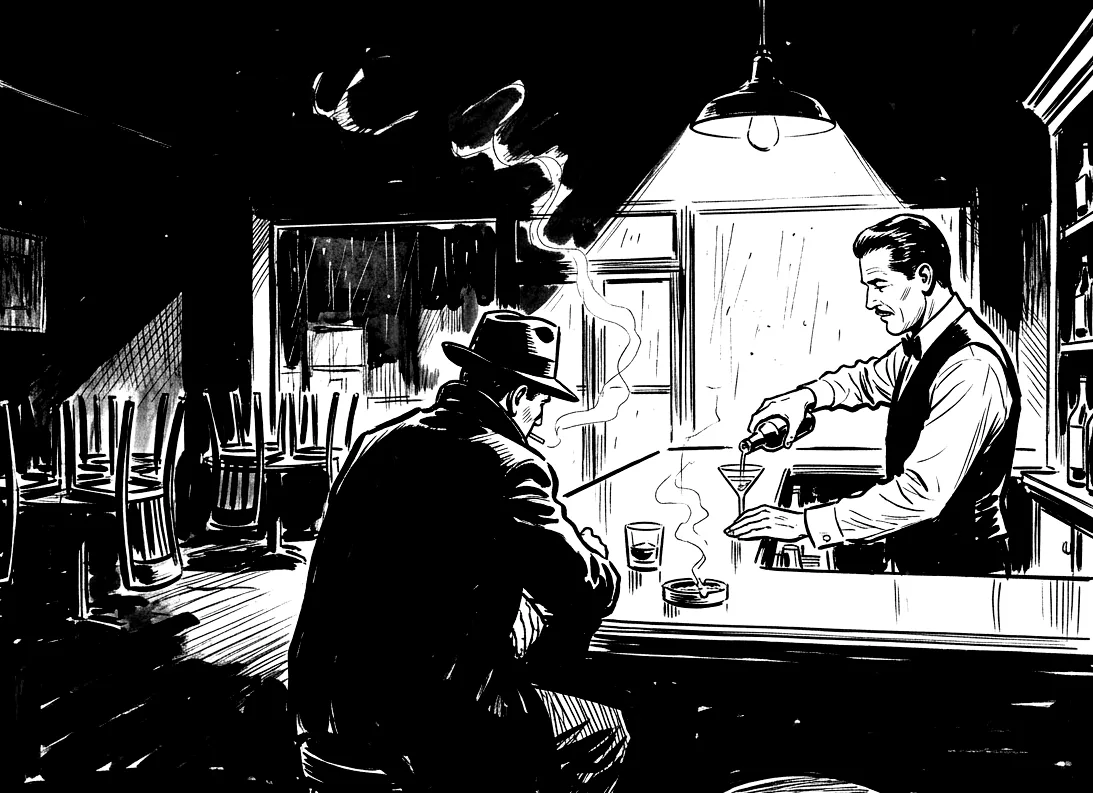
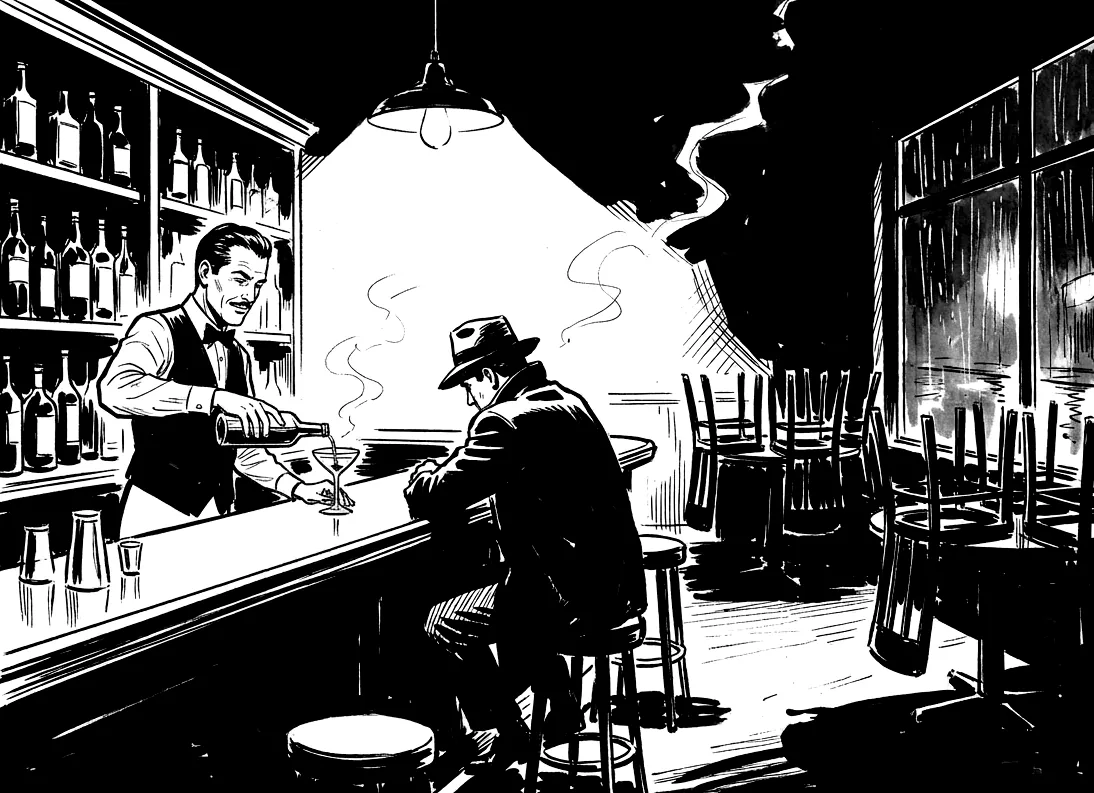
Ny nattbild för bartendern (man), samma motiv som kvinnans
Claude-Session: https://claude.ai/code/session_01X82C4BNK6EAMjc8zCm3VXK

diff --git a/src/scenes/sceneImages.js b/src/scenes/sceneImages.js
@@ -86,7 +86,7 @@ export const SCENE_IMAGES = /** @type {const} */ ({
   nightWindowWatcherWoman: { src: nightWindowWatcherWoman, alt: 'En kvinna med papiljotter bakom en gardin ser genom fönstret hur en man i hatt går fram till en upplyst dörr i regnet.', position: '60% 50%' },
   nightWindowWatcherMan: { src: nightWindowWatcherMan, alt: 'En äldre man med glasögon och en kikare i handen ser bakom en gardin hur en man i hatt går fram till en upplyst dörr i regnet.', position: '60% 50%' },
   nightBartenderWoman: { src: nightBartenderWoman, alt: 'En bartender häller upp en drink åt en ensam gäst i hatt som sitter hopsjunken vid bardisken.', position: '25% 50%' },
-  nightBartenderMan: { src: nightBartenderMan, alt: 'En bartender häller upp en drink åt en ensam gäst i hatt som sitter hopsjunken vid bardisken.', position: '100% 50%' },
+  nightBartenderMan: { src: nightBartenderMan, alt: 'En bartender häller upp en drink åt en ensam gäst i hatt som sitter hopsjunken vid bardisken.', position: '25% 50%' },
   nightSausageVendorWoman: { src: nightSausageVendorWoman, alt: 'En korvvagn under en gatlykta i regnet. En korvgumma räcker en korv till en man i hatt.', position: '50% 50%' },
   nightSausageVendorMan: { src: nightSausageVendorMan, alt: 'En korvvagn under en gatlykta i regnet. Korvgubben räcker en korv till en man i hatt.', position: '50% 50%' },
   morningMurder: { src: morningMurder, alt: 'En man ligger död på en regnvåt gata under en gatlykta. Hans hatt ligger bredvid, och en man i hatt och rock går därifrån med en pistol i handen.', position: '60% 50%' },
